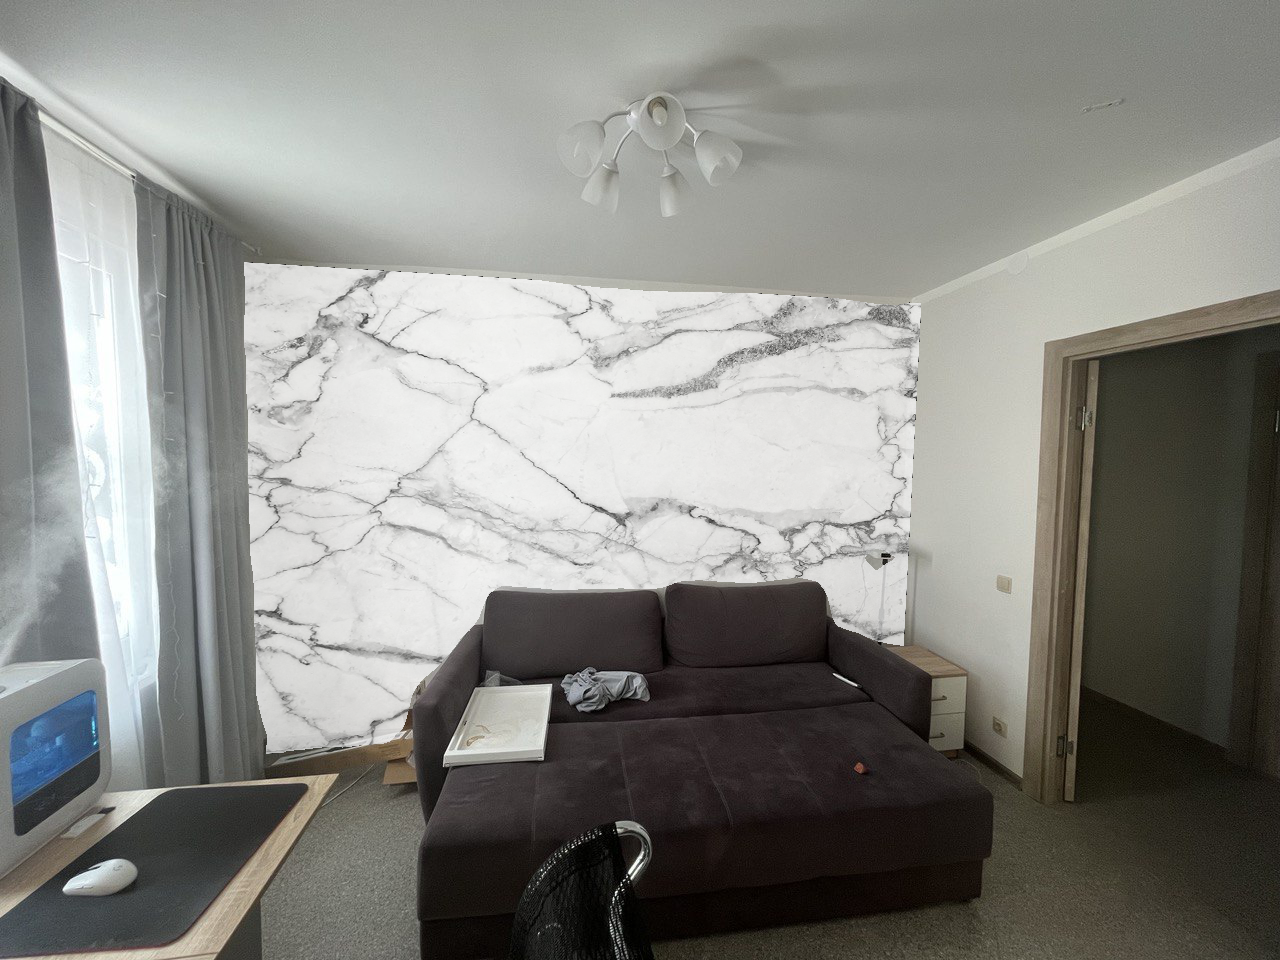
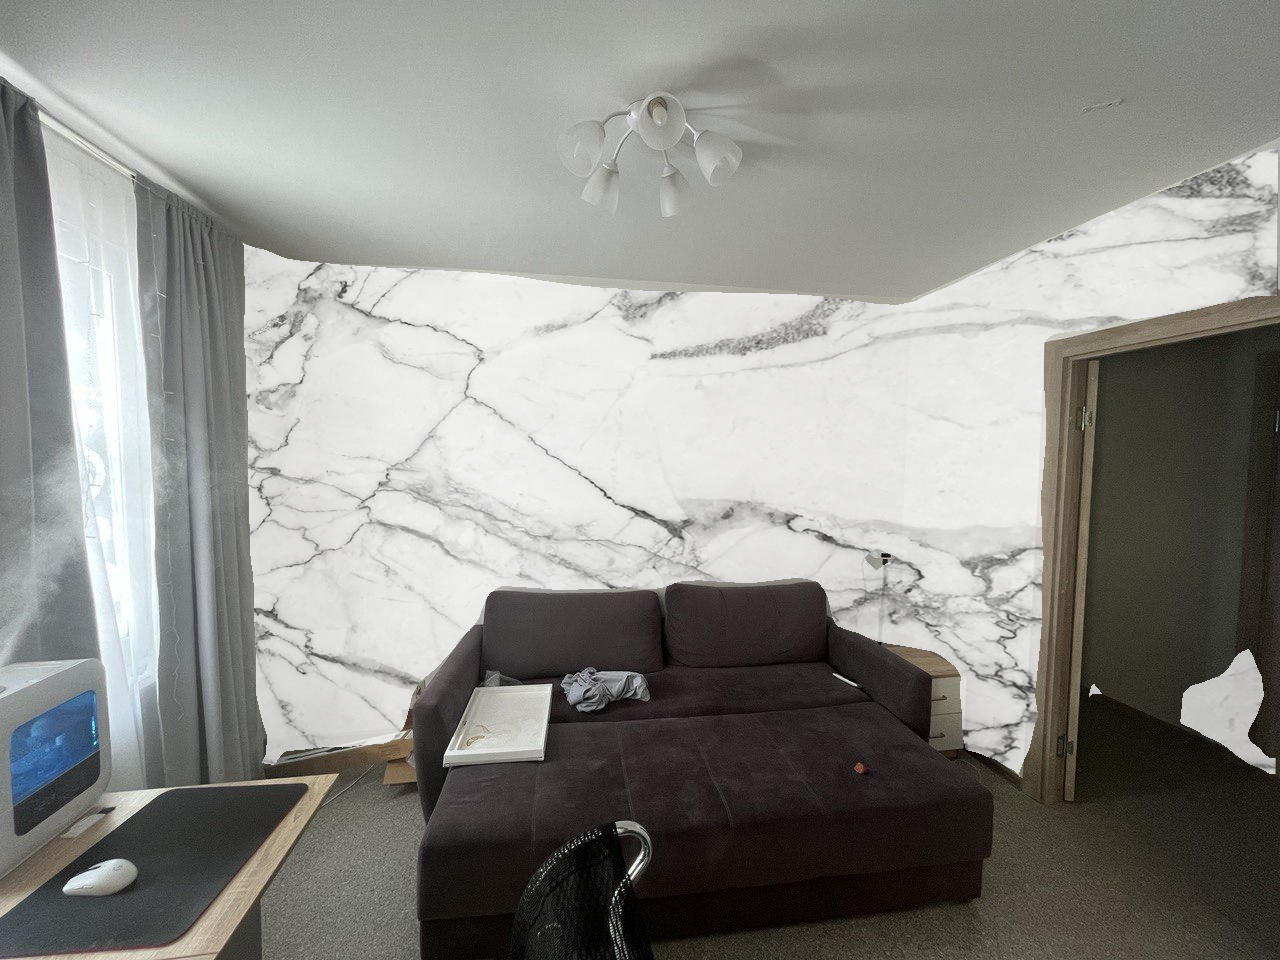
add examples

diff --git a/main.py b/main.py
@@ -29,10 +29,12 @@ class PatternApply():
         
         result *= self.seg_png # pick only parts covering the selected class id (ex., bed, walls)
         img[result != 0] = img[result != 0]*0.2 + result[result != 0]*0.8
+        self.img_ = img
+        
+    def save_img(self,):
         imgs = glob(os.path.join(self.output_path, "*.png")) + glob(os.path.join(self.output_path, "*.jpg"))
         cv2.imwrite(os.path.join(self.output_path, f"{len(imgs)}.png"), img)
-        self.img_ = img
-
+        
     def getImg(self):
         return self.img_
     
@@ -74,11 +76,15 @@ if __name__=="__main__":
   
     # displaying the image
     cv2.imshow('image', img)
-  
+    
     # setting mouse handler for the image
     # and calling the click_event() function
     cv2.setMouseCallback('image', click_event)
     # wait for a key to be pressed to exit
     cv2.waitKey(0)
+    
+    # Save final img
+    pattern.save_img()
+    
     # close the window
     cv2.destroyAllWindows()

diff --git a/README.md b/README.md
@@ -33,21 +33,23 @@ docker run --rm -it --gpus all --net=host --ipc=host -e DISPLAY=$DISPLAY -v /tmp
 mim download mmsegmentation --config pspnet_r101-d8_480x480_80k_pascal_context_59 --dest models/
 ```
 
-## Get the mask
+## Get the mask of the interior (to mask selected objects (ex., a wall))
 ```
-python3 get_seg.py --obj_class wall
+python3 get_seg.py --image demo/source/test.png --output demo/mask/test.png --obj_class wall --device cuda
 ```
 
 ## get the pattern
 ```
-python3 main.py
+python3 main.py --image demo/source/test.png --mask demo/mask/test.png --pattern demo/patterns/texture_1.jpg 
 ```
 results are saved in `demo/results` dir
 
 # TODO:
 * create tg bot @nikultimo
 * automate corners selection
-* play with various models
+* play with various models. Improve the mask accuracy
+* Add online pattern change wrt selected corners
+* add weighted sum coefficients adjusting
 
 
 # References
